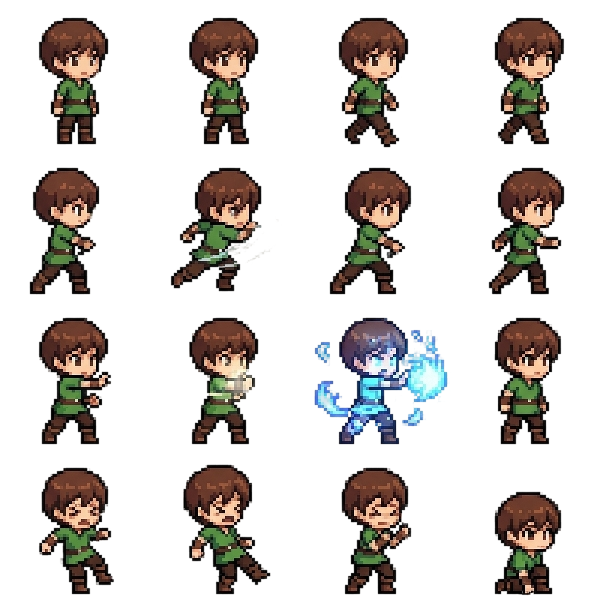
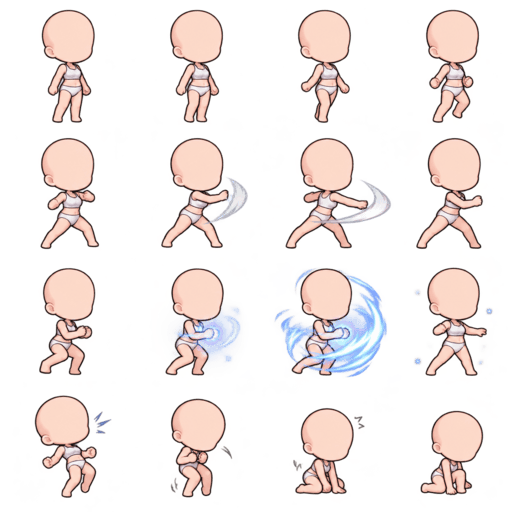
feat: update character sprite dimensions and add new assets for testing

diff --git a/client/src/styles/main.css b/client/src/styles/main.css
@@ -46,38 +46,10 @@ body {
   gap: 12px;
 }
 
-.brand-mark {
-  display: grid;
-  width: 42px;
-  height: 42px;
-  place-items: center;
-  border: 1px solid #c7a85a;
-  border-radius: 50%;
-  background: radial-gradient(circle at 35% 30%, #f5d88c, #a77728 75%);
-  box-shadow: 0 0 24px #d5aa4a38;
-  color: #151812;
-  font-family: Georgia, "Times New Roman", serif;
-  font-size: 1.08rem;
-  font-weight: 800;
-}
-
-.brand-wordmark {
-  display: grid;
-  gap: 2px;
-  color: #f3ead6;
-  letter-spacing: 0.12em;
-  line-height: 1;
-}
-
-.brand-wordmark strong {
-  font-size: 0.88rem;
-}
-
-.brand-wordmark > span {
-  color: #c8a95c;
-  font-size: 0.68rem;
-  font-weight: 750;
-  letter-spacing: 0.28em;
+.brand-logo {
+  display: block;
+  width: clamp(170px, 18vw, 230px);
+  height: auto;
 }
 
 .eyebrow {
@@ -1123,99 +1095,25 @@ h1 {
 
 .lobby-hero-art {
   position: relative;
-  display: grid;
   min-height: 280px;
-  place-items: center;
-  isolation: isolate;
+  overflow: hidden;
 }
 
 .lobby-hero-art::before {
   position: absolute;
-  z-index: -1;
-  width: min(78%, 310px);
-  aspect-ratio: 1;
-  border: 1px solid #e4c56c2e;
-  border-radius: 50%;
-  background: radial-gradient(circle, #c99b3826, transparent 68%);
+  z-index: 1;
+  inset: 0;
+  background: linear-gradient(90deg, #14221c 0%, #14221c00 42%);
   content: "";
 }
 
-.lobby-card {
+.lobby-hero-art img {
   position: absolute;
-  display: flex;
-  width: 132px;
-  height: 190px;
-  flex-direction: column;
-  padding: 12px;
-  border: 1px solid #d5c8a9;
-  border-radius: 11px;
-  box-shadow: 0 18px 36px #0006;
-}
-
-.lobby-card-back {
-  align-items: center;
-  justify-content: center;
-  transform: translate(-74px, 8px) rotate(-17deg);
-  border-color: #d6b966;
-  background:
-    repeating-linear-gradient(45deg, transparent 0 7px, #ffffff12 7px 9px),
-    #273d32;
-  color: #e7c56e;
-  font-family: Georgia, "Times New Roman", serif;
-  font-size: 3rem;
-}
-
-.lobby-card-ten {
-  transform: translate(42px, 4px) rotate(13deg);
-  background: #f5eddb;
-  color: #a63845;
-}
-
-.lobby-card-ace {
-  transform: translate(-16px, -9px) rotate(-3deg);
-  background: #fffaf0;
-  color: #1c2821;
-}
-
-.lobby-card-rank {
-  font-size: 1.25rem;
-  font-weight: 800;
-  line-height: 1;
-}
-
-.lobby-card-suit {
-  display: grid;
-  flex: 1;
-  place-items: center;
-  font-size: 4.5rem;
-  line-height: 1;
-}
-
-.lobby-chip {
-  position: absolute;
-  right: 12%;
-  bottom: 13%;
-  display: grid;
-  width: 68px;
-  aspect-ratio: 1;
-  place-content: center;
-  border: 2px dashed #f0d47d;
-  border-radius: 50%;
-  background: #741f34;
-  box-shadow: 0 0 0 5px #741f34, 0 0 0 6px #f0d47d, 0 12px 24px #0007;
-  color: #fff3d3;
-  font-family: Georgia, "Times New Roman", serif;
-  font-size: 1.4rem;
-  font-weight: 700;
-  line-height: 1;
-  text-align: center;
-}
-
-.lobby-chip small {
-  margin-top: 3px;
-  font-family: inherit;
-  font-size: 0.48rem;
-  letter-spacing: 0.13em;
+  inset: 0;
+  width: 100%;
+  height: 100%;
+  object-fit: cover;
+  object-position: center;
 }
 
 .lobby-options {
@@ -2203,17 +2101,8 @@ h1 {
     gap: 8px;
   }
 
-  .brand-mark {
-    width: 36px;
-    height: 36px;
-  }
-
-  .brand-wordmark strong {
-    font-size: 0.76rem;
-  }
-
-  .brand-wordmark > span {
-    font-size: 0.58rem;
+  .brand-logo {
+    width: clamp(128px, 38vw, 176px);
   }
 
   .actions {
@@ -2272,33 +2161,6 @@ h1 {
 
   .lobby-hero-art {
     min-height: 205px;
-  }
-
-  .lobby-card {
-    width: 112px;
-    height: 162px;
-  }
-
-  .lobby-card-back {
-    transform: translate(-62px, 8px) rotate(-17deg);
-  }
-
-  .lobby-card-ten {
-    transform: translate(34px, 4px) rotate(13deg);
-  }
-
-  .lobby-card-ace {
-    transform: translate(-16px, -9px) rotate(-3deg);
-  }
-
-  .lobby-card-suit {
-    font-size: 3.8rem;
-  }
-
-  .lobby-chip {
-    right: 9%;
-    bottom: 8%;
-    width: 58px;
   }
 
   .leaderboard-columns {

diff --git a/client/index.html b/client/index.html
@@ -9,9 +9,8 @@
   <body>
     <main class="game-card">
       <header class="game-header">
-        <div class="brand-lockup" aria-label="Blackjack Survivors">
-          <span class="brand-mark" aria-hidden="true">21</span>
-          <span class="brand-wordmark"><strong>BLACKJACK</strong><span>SURVIVORS</span></span>
+        <div class="brand-lockup">
+          <img class="brand-logo" src="/src/assets/banners/1057571f-6d0b-46ac-8146-6037ccb3408f.png" alt="Blackjack Survivors" />
         </div>
         <p class="rules"><span aria-hidden="true"></span>A roguelike card battler</p>
       </header>
@@ -92,10 +91,7 @@
               </button>
             </div>
             <div class="lobby-hero-art" aria-hidden="true">
-              <div class="lobby-card lobby-card-back"><span>♣</span></div>
-              <div class="lobby-card lobby-card-ten"><span class="lobby-card-rank">10</span><span class="lobby-card-suit">♥</span></div>
-              <div class="lobby-card lobby-card-ace"><span class="lobby-card-rank">A</span><span class="lobby-card-suit">♠</span></div>
-              <div class="lobby-chip">21<small>LUCK</small></div>
+              <img src="/src/assets/banners/44d71b43-025f-4677-a072-b7d9a13e1e96.png" alt="" loading="lazy" decoding="async" />
             </div>
           </section>
           <nav class="lobby-options" aria-label="Game menu">

diff --git a/client/src/game/characters.js b/client/src/game/characters.js
@@ -32,9 +32,9 @@ export const characters = [
     name: 'Testing',
     spriteSheet: testingSpriteSheet,
     spriteLayout: {
-      idleFrames: [0, 150, 300, 450],
-      frameWidth: 150,
-      frameHeight: 150,
+      idleFrames: [0, 128, 256, 384],
+      frameWidth: 128,
+      frameHeight: 128,
       frameTop: 0,
       animationRows: {
         attack: 1,
@@ -42,6 +42,6 @@ export const characters = [
         hurt: 3,
       },
     },
-    displayScale: 1.25,
+    displayScale: 1.2,
   },
 ];
